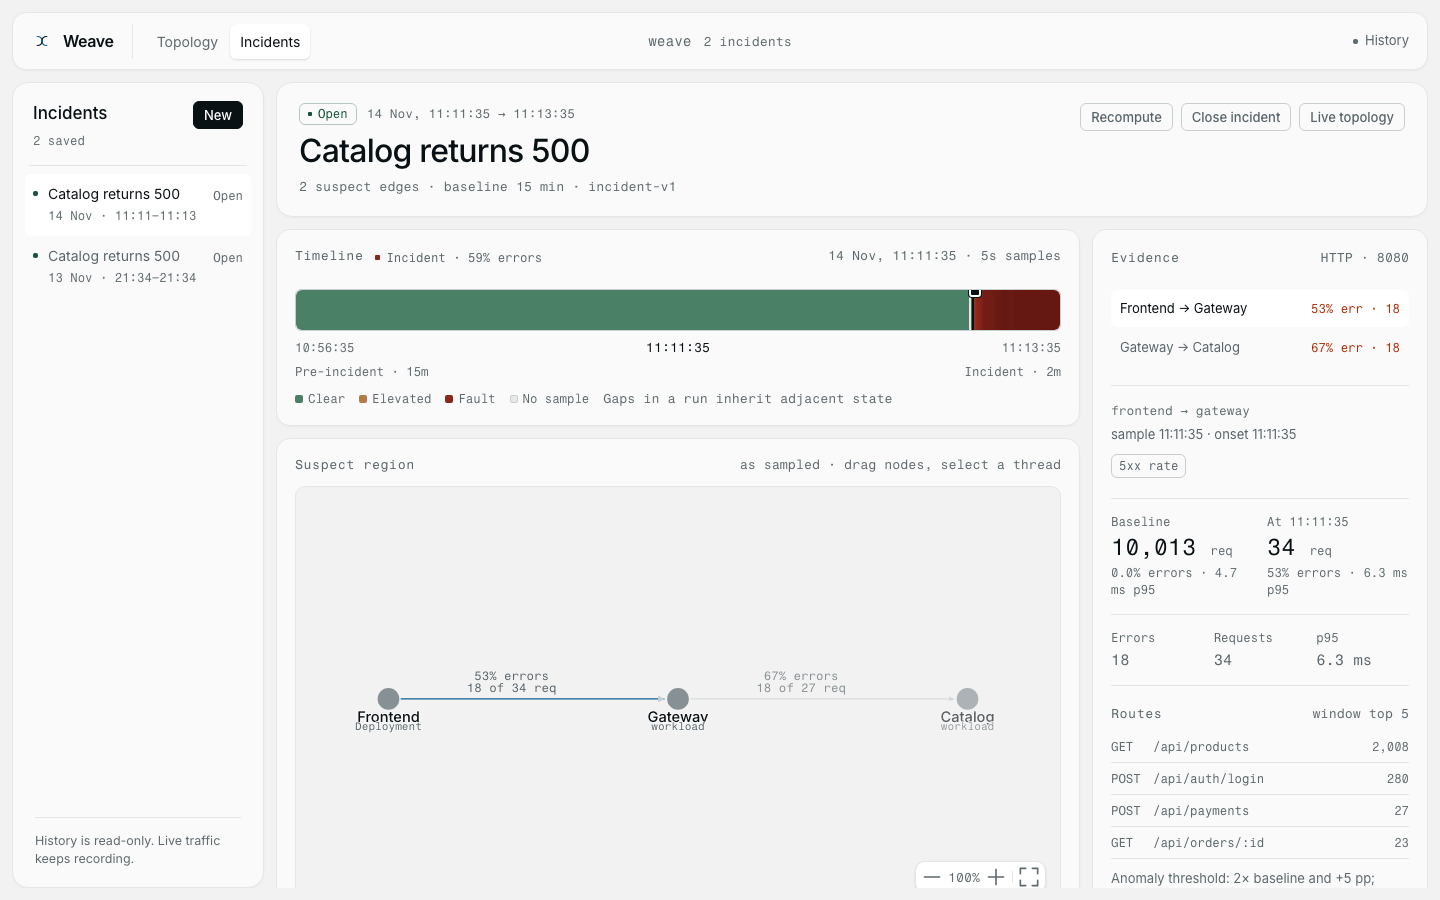
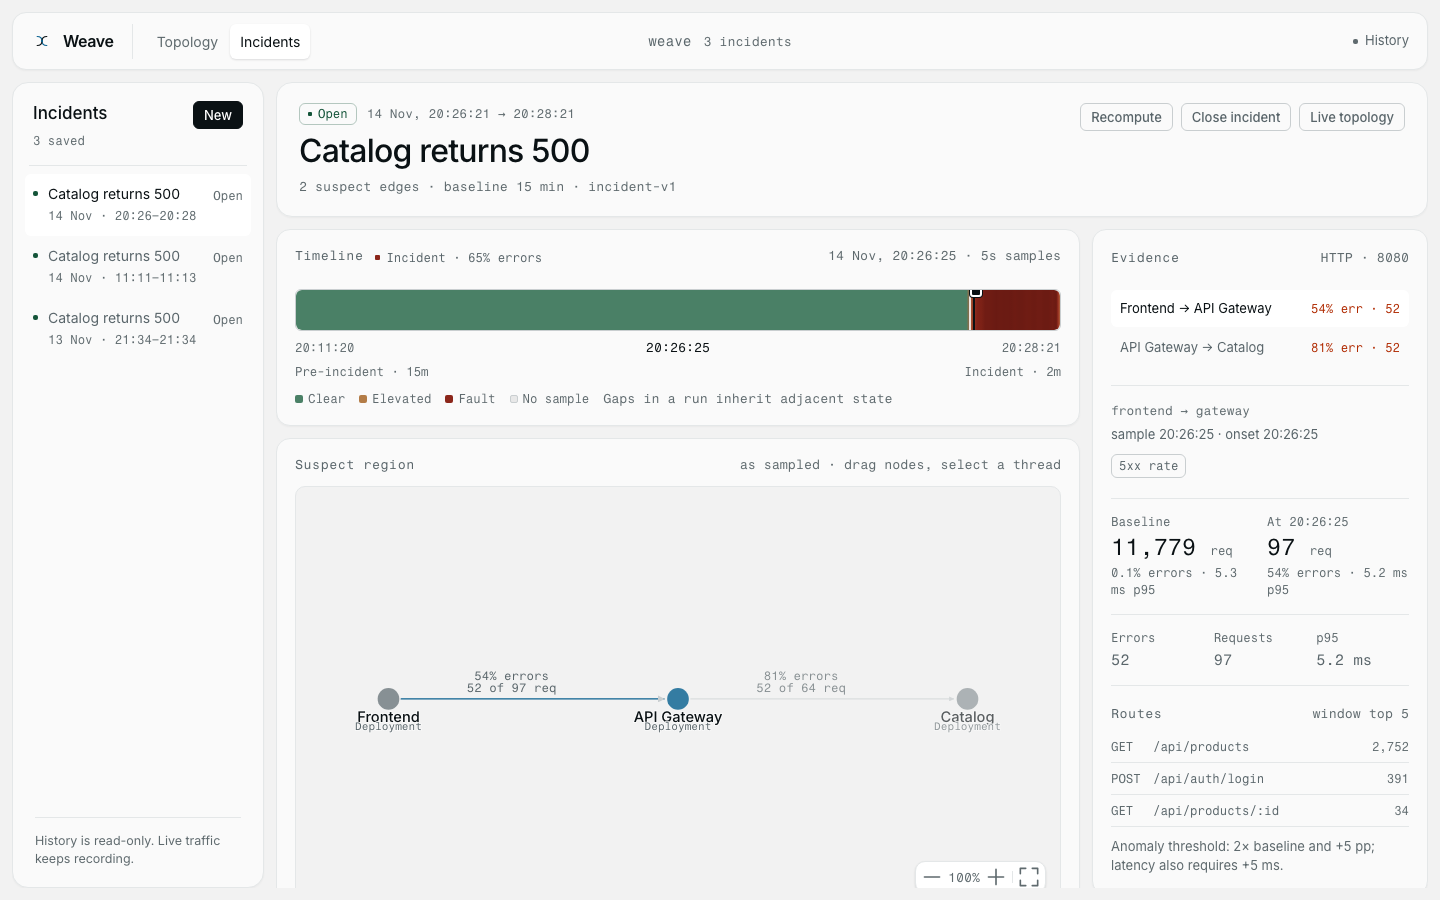
fix: tweak frontend incident tab page

diff --git a/services/weave/web/src/styles.css b/services/weave/web/src/styles.css
@@ -1769,8 +1769,7 @@ button:disabled {
 }
 
 .field input,
-.field textarea,
-.notes-panel textarea {
+.field textarea {
   width: 100%;
   border: 1px solid var(--line-strong);
   border-radius: 6px;
@@ -1789,21 +1788,18 @@ button:disabled {
   padding: 0 10px;
 }
 
-.field textarea,
-.notes-panel textarea {
+.field textarea {
   padding: 9px 10px;
   resize: vertical;
 }
 
 .field input::placeholder,
-.field textarea::placeholder,
-.notes-panel textarea::placeholder {
+.field textarea::placeholder {
   color: var(--text-3);
 }
 
 .field input:focus,
-.field textarea:focus,
-.notes-panel textarea:focus {
+.field textarea:focus {
   border-color: var(--accent);
   background: var(--surface);
   outline: none;
@@ -2098,62 +2094,12 @@ button:disabled {
   margin: 0 0 6px;
 }
 
-.onset-panel {
-  margin-top: 2px;
-}
-
-.onset-list {
-  display: flex;
-  flex-direction: column;
-  gap: 8px;
-}
-
-.onset-row {
-  display: grid;
-  grid-template-columns: minmax(150px, 220px) minmax(0, 1fr) 66px;
-  align-items: center;
-  gap: 12px;
-}
-
-.onset-label {
-  overflow: hidden;
-  color: var(--text-2);
-  font-size: 12px;
-  text-overflow: ellipsis;
-  white-space: nowrap;
-}
-
-.onset-track {
-  position: relative;
-  height: 1px;
-  background: var(--line-strong);
-}
-
-.onset-mark {
-  position: absolute;
-  top: -4px;
-  width: 1px;
-  height: 9px;
-  background: var(--text-3);
-}
-
-.onset-mark.is-first {
-  top: -6px;
-  width: 2px;
-  height: 13px;
-  background: var(--accent-bright);
-}
-
-.onset-time {
-  color: var(--text-3);
-  font-family: var(--font-mono);
-  font-size: 12px;
-  text-align: right;
-}
-
 .change-strip {
-  padding-top: 14px;
+  padding: 16px 18px;
   border-top: 1px solid var(--line);
+  border-radius: 14px;
+  background: var(--bg);
+  box-shadow: var(--panel-shadow);
 }
 
 .change-strip-head {
@@ -2215,24 +2161,6 @@ button:disabled {
   margin: 0;
   color: var(--text-3);
   font-size: 12px;
-}
-
-.notes-panel {
-  display: flex;
-  flex-direction: column;
-}
-
-.notes-panel textarea {
-  min-height: 78px;
-  margin-top: 2px;
-}
-
-.notes-actions {
-  display: flex;
-  align-items: center;
-  flex-wrap: wrap;
-  gap: 12px;
-  margin-top: 10px;
 }
 
 .evidence-panel {
@@ -2518,15 +2446,7 @@ button:disabled {
     gap: 0;
   }
 
-  .onset-row {
-    grid-template-columns: minmax(0, 1fr) 66px;
-  }
-
-  .onset-track {
-    display: none;
-  }
-
-  .change-row {
+      .change-row {
     grid-template-columns: 56px minmax(0, 1fr) 66px;
   }
 
@@ -2618,19 +2538,6 @@ button:disabled {
   }
 }
 
-@media (max-width: 720px) {
-  .onset-row {
-    grid-template-columns: minmax(0, 1fr) 66px;
-    row-gap: 3px;
-  }
-
-  .onset-track {
-    display: block;
-    grid-column: 1 / -1;
-    grid-row: 2;
-    margin-top: 2px;
-  }
-}
 
 .suspect-edge-group:focus-visible {
   outline: none;
@@ -3232,23 +3139,6 @@ button:disabled {
   font-size: 14px;
 }
 
-.onset-current {
-  position: absolute;
-  top: -8px;
-  bottom: -8px;
-  width: 1px;
-  background: var(--accent-bright);
-  opacity: 0.7;
-}
-
-.onset-label {
-  font-size: 13px;
-}
-
-.onset-time {
-  font-size: 12px;
-}
-
 .change-row {
   grid-template-columns: 70px 128px minmax(0, 1fr) 82px;
   padding: 8px 0;
@@ -3400,8 +3290,7 @@ button:disabled {
 }
 
 .field input,
-.field textarea,
-.notes-panel textarea {
+.field textarea {
   font-size: 15px;
 }
 
@@ -3876,9 +3765,6 @@ button:disabled {
 }
 
 .incident-panel,
-.onset-panel,
-.change-strip,
-.notes-panel,
 .evidence-panel {
   padding: 16px 18px;
   border: 1px solid var(--line);
@@ -3893,8 +3779,7 @@ button:disabled {
 }
 
 .scrubber-panel,
-.suspect-panel,
-.notes-panel {
+.suspect-panel {
   grid-column: 1 / -1;
 }
 
@@ -3940,8 +3825,7 @@ button:disabled {
   }
 
   .scrubber-panel,
-  .suspect-panel,
-  .notes-panel {
+  .suspect-panel {
     grid-column: auto;
   }
 }
@@ -4069,9 +3953,7 @@ button:disabled {
   }
 
   .incident-panel,
-  .onset-panel,
   .change-strip,
-  .notes-panel,
   .evidence-panel {
     padding: 14px;
     border-radius: 12px;

diff --git a/services/weave/web/src/components/Incidents.tsx b/services/weave/web/src/components/Incidents.tsx
@@ -558,9 +558,7 @@ function IncidentDetail({
             selectedEdge={selectedEdge}
             onSelectEdge={setSelectedEdge}
           />
-          <OnsetTimeline evidence={evidence} snapshot={snapshot} activeAt={activeFrame?.at} />
           <ChangeStrip changes={changes} loading={changesLoading} until={activeFrame?.at} />
-          <NotesEditor incident={incident} busy={busy} onSave={(notes) => void patch({ notes })} />
         </div>
         <EvidencePanel
           evidence={evidence}
@@ -1013,52 +1011,6 @@ function SuspectCanvas({
   )
 }
 
-function OnsetTimeline({
-  evidence,
-  snapshot,
-  activeAt,
-}: {
-  evidence: Incident['evidence']
-  snapshot: Snapshot | null
-  activeAt?: string
-}) {
-  const edges = evidence.edges
-    .filter((edge) => edge.anomaly && edge.onset)
-    .sort((left, right) => new Date(left.onset ?? 0).getTime() - new Date(right.onset ?? 0).getTime())
-  if (edges.length === 0) return null
-  const start = new Date(evidence.window.start).getTime()
-  const end = new Date(evidence.window.end).getTime()
-  const span = Math.max(1, end - start)
-  const currentAt = activeAt ? new Date(activeAt).getTime() : null
-  const currentLeft = currentAt !== null && currentAt >= start && currentAt <= end
-    ? ((currentAt - start) / span) * 100
-    : null
-  return (
-    <section className="incident-panel onset-panel">
-      <div className="section-heading">
-        <h3>Onset</h3>
-        <span className="mono muted-copy">{formatDateTime(evidence.window.start)} → {formatClock(evidence.window.end)}</span>
-      </div>
-      <div className="onset-list">
-        {edges.map((edge, index) => {
-          const at = new Date(edge.onset ?? 0).getTime()
-          const left = Math.min(100, Math.max(0, ((at - start) / span) * 100))
-          return (
-            <div className="onset-row" key={edge.edge_id}>
-              <span className="onset-label">{nodeName(snapshot, edge.source)} → {nodeName(snapshot, edge.target)}</span>
-              <div className="onset-track">
-                <span className={`onset-mark${index === 0 ? ' is-first' : ''}`} style={{ left: `${left}%` }} />
-                {currentLeft !== null ? <span className="onset-current" style={{ left: `${currentLeft}%` }} /> : null}
-              </div>
-              <span className="onset-time">{formatClock(edge.onset)}</span>
-            </div>
-          )
-        })}
-      </div>
-    </section>
-  )
-}
-
 function EvidencePanel({
   evidence,
   snapshot,
@@ -1188,37 +1140,3 @@ function ChangeStrip({ changes, loading, until }: { changes: ChangeEvent[]; load
   )
 }
 
-function NotesEditor({ incident, busy, onSave }: { incident: Incident; busy: boolean; onSave: (notes: string) => void }) {
-  const [notes, setNotes] = useState(incident.notes)
-  const [dirty, setDirty] = useState(false)
-  useEffect(() => {
-    setNotes(incident.notes)
-    setDirty(false)
-  }, [incident.id, incident.notes])
-
-  return (
-    <section className="incident-panel notes-panel">
-      <div className="section-heading">
-        <h3>Notes</h3>
-        <span className="mono muted-copy">{incident.status === 'open' ? 'open' : 'closed'}</span>
-      </div>
-      <textarea
-        aria-label="Incident notes"
-        value={notes}
-        onChange={(event) => {
-          setNotes(event.target.value)
-          setDirty(true)
-        }}
-        placeholder="Record what you checked, what you ruled out, and what to hand off."
-        rows={3}
-        maxLength={4000}
-      />
-      <div className="notes-actions">
-        <button type="button" className="button button-small" disabled={!dirty || busy} onClick={() => onSave(notes)}>
-          {busy ? 'Saving…' : 'Save note'}
-        </button>
-        <span className="field-hint">Notes stay with this incident and its evidence.</span>
-      </div>
-    </section>
-  )
-}
